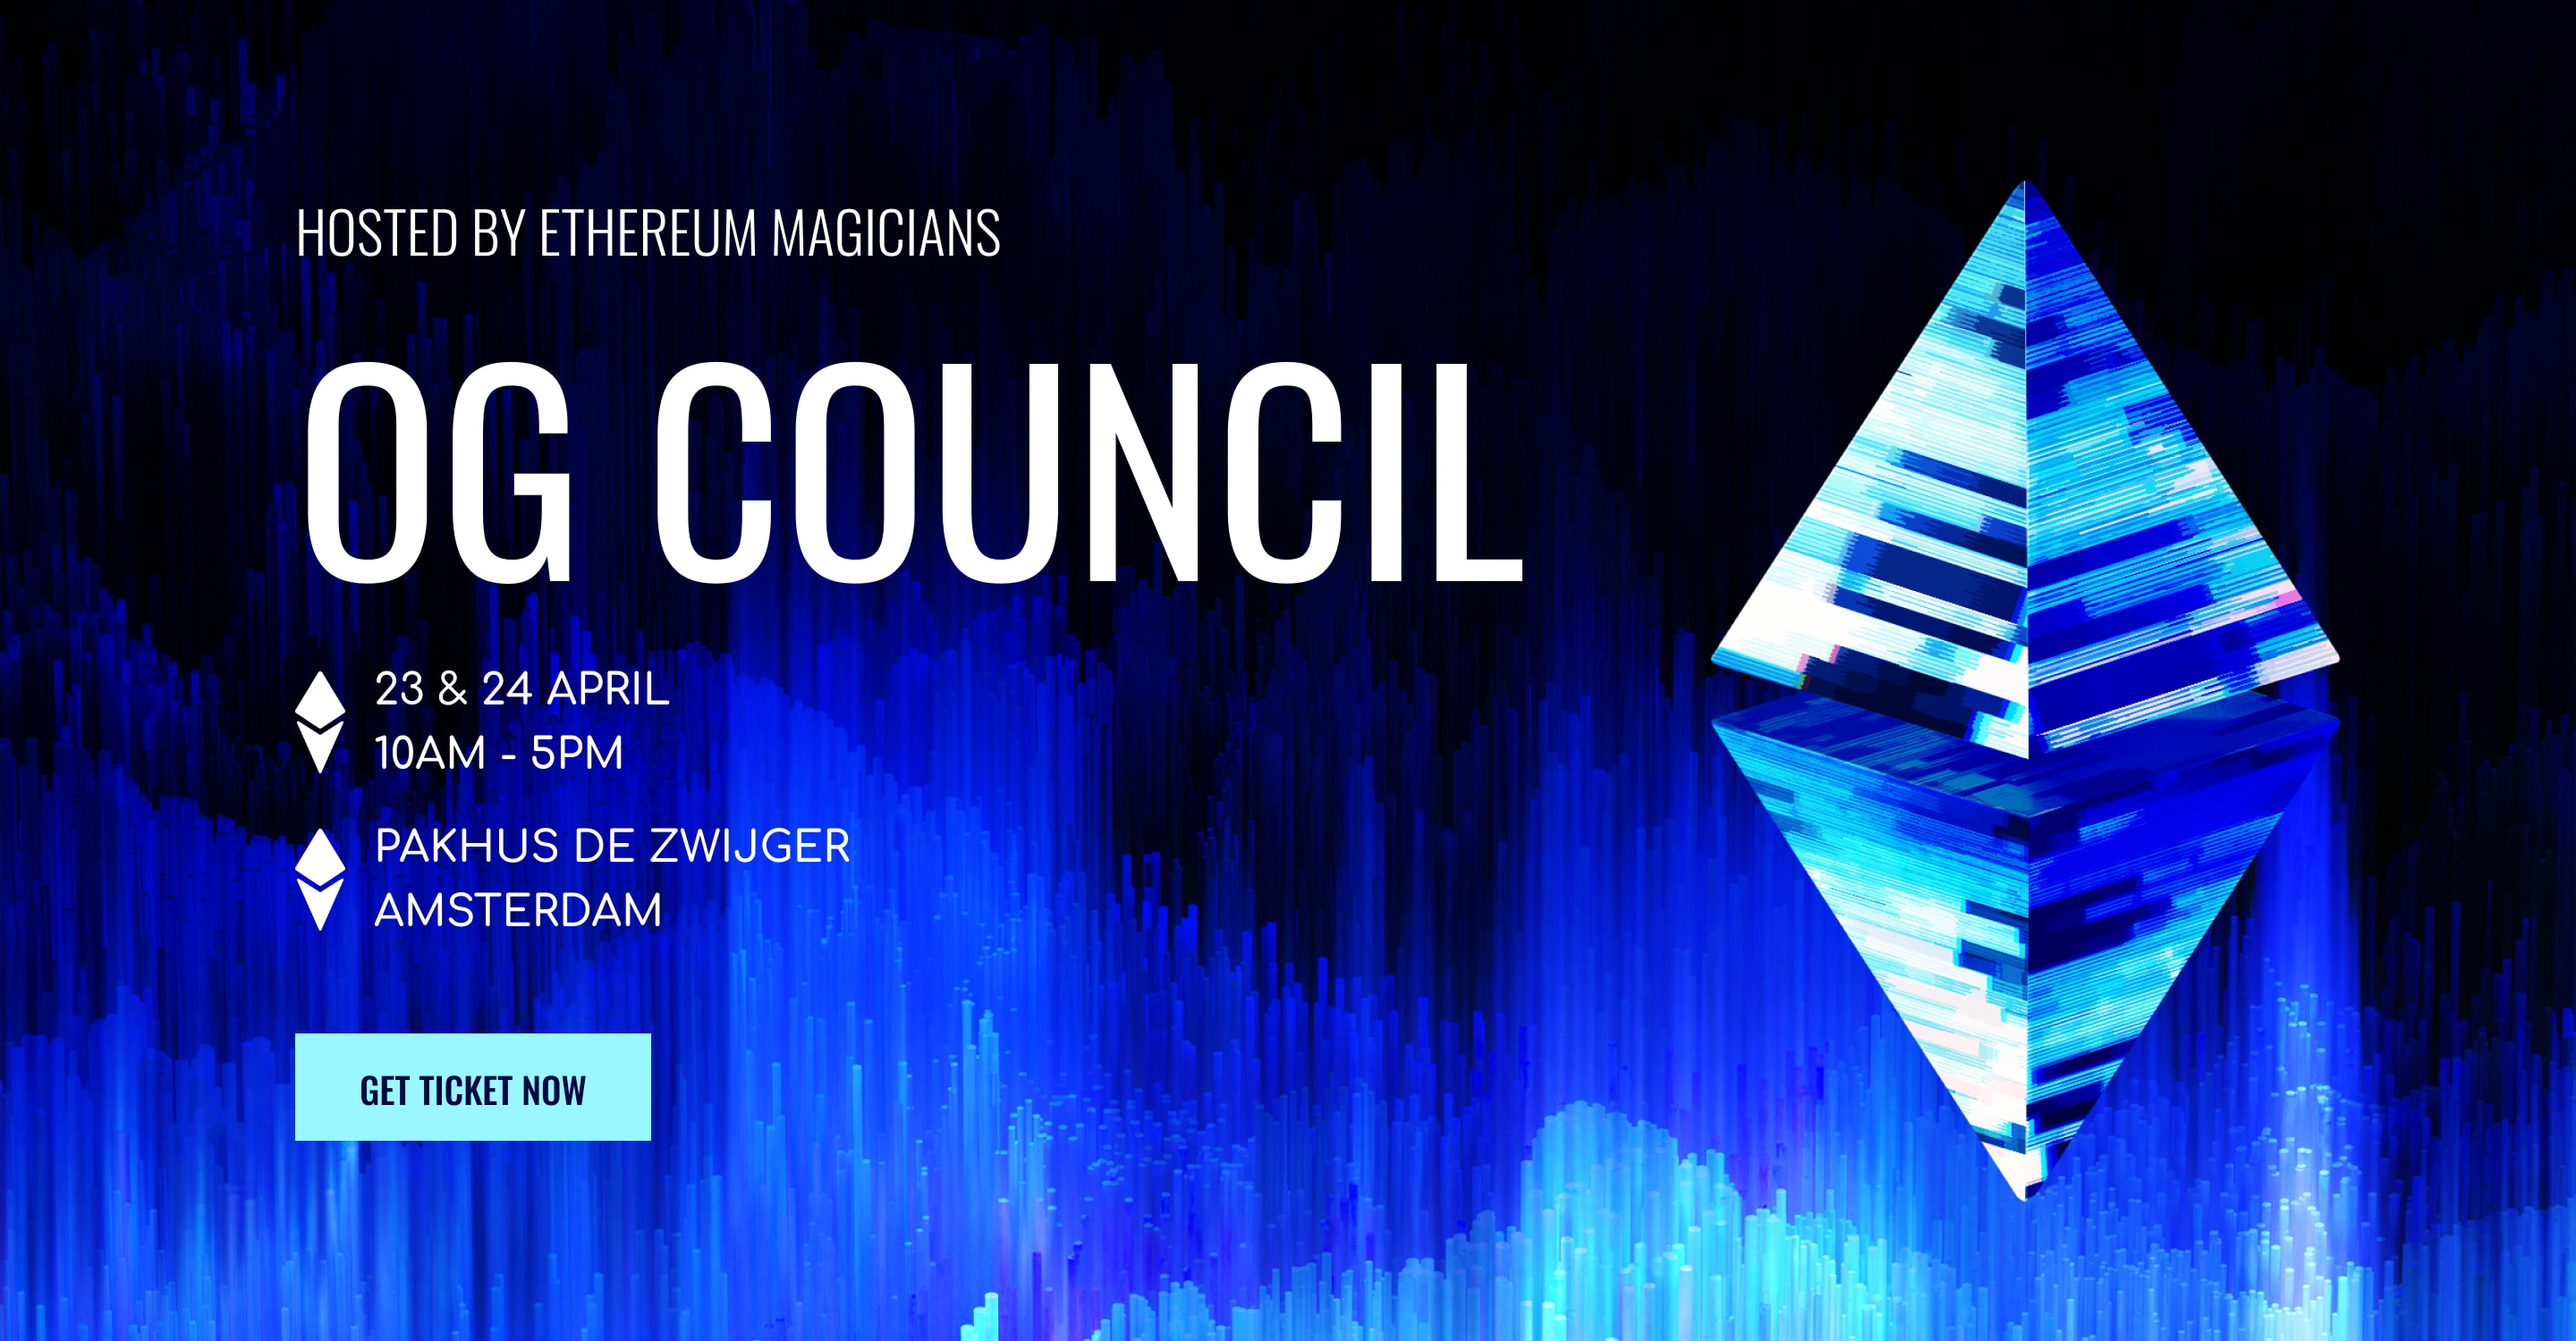
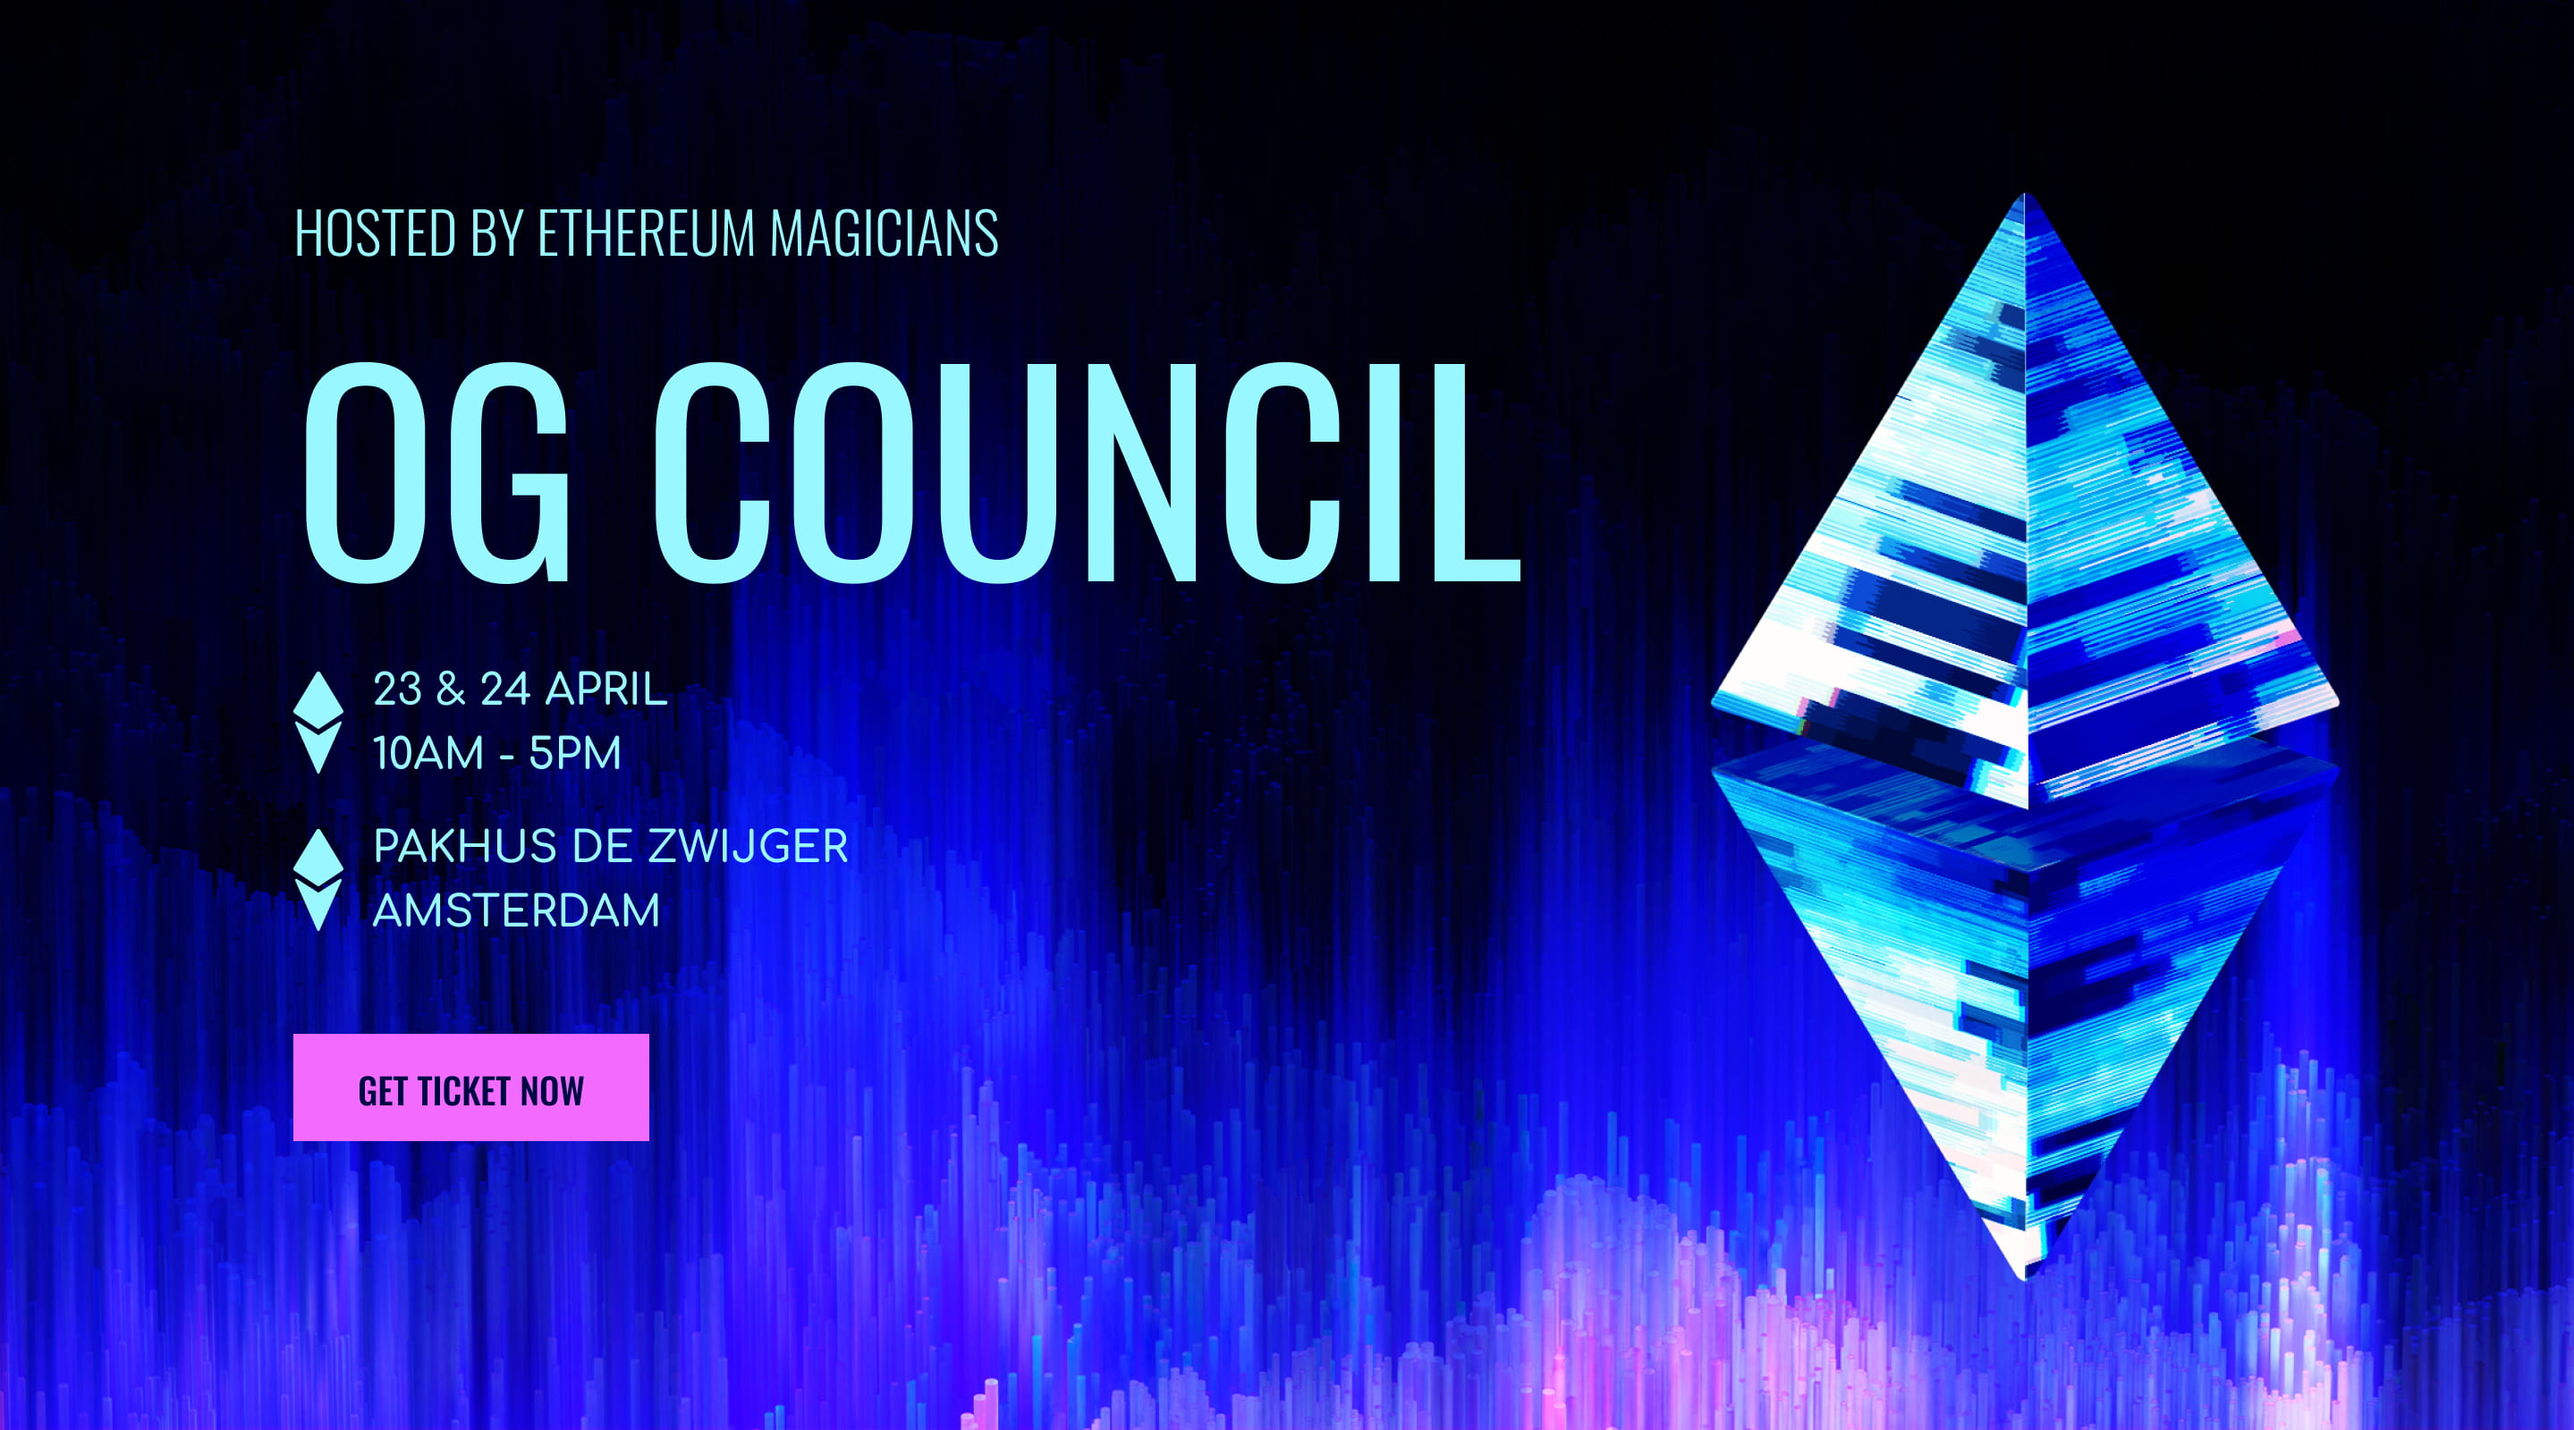
update

diff --git a/pages/index.tsx b/pages/index.tsx
@@ -7,6 +7,7 @@ import { Disclosure, Transition } from '@headlessui/react'
 import { ChevronDownIcon } from '@heroicons/react/outline'
 
 import Banner from '../images/banner.jpeg'
+import BannerMobile from '../images/banner-m.jpeg'
 
 import Map from '../images/map.png'
 import About from '../images/about.jpeg'
@@ -15,7 +16,6 @@ import Clock from '../images/icons/Clock.svg'
 import Pin from '../images/icons/Pin.svg'
 import Micro from '../images/icons/Micro.svg'
 
-const linkClass = ''
 const lightTextClass = 'text-base font-light'
 
 const Home: NextPage = () => {
@@ -34,7 +34,12 @@ const Home: NextPage = () => {
       <main className="min-h-screen flex-1 flex flex-col">
         <article className="w-full relative">
           <a href="">
-            <Image src={Banner} alt="" layout="responsive"></Image>
+            <div className="hidden lg:block">
+              <Image src={Banner} alt="" layout="responsive"></Image>
+            </div>
+            <div className="lg:hidden">
+              <Image src={BannerMobile} alt="" layout="responsive"></Image>
+            </div>
           </a>
         </article>
         <article className="container pt-12 lg:pt-32">
@@ -198,7 +203,7 @@ const Home: NextPage = () => {
               <dl className="mt-6 space-y-4">
                 {[
                   {
-                    n: 'Wave 1 - Date TBA',
+                    n: 'Wave 1 - Invite only claimable until March 17',
                     c: (
                       <>
                         <p>Tickets available: 250</p>
@@ -228,7 +233,7 @@ const Home: NextPage = () => {
                     ),
                   },
                   {
-                    n: 'Wave 2 - Date TBA',
+                    n: 'Wave 2 - March 18 claimable until March 25',
                     c: (
                       <>
                         <p>Tickets available: 200</p>
@@ -241,7 +246,7 @@ const Home: NextPage = () => {
                     ),
                   },
                   {
-                    n: 'Wave 3 - Date TBA',
+                    n: 'Wave 3 - April 1 till sold out',
                     c: (
                       <>
                         <p>Tickets available: 150</p>
@@ -405,7 +410,7 @@ const Home: NextPage = () => {
                     <div className="mt-6">
                       <a
                         href="https://goo.gl/maps/pnHc6BQZ24k62ihb6"
-                        className="inline-block bg-blue-02 cursor-pointer hover:opacity-95 text-blue-05 uppercase px-9 py-3 font-display"
+                        className="inline-block bg-pink-04 cursor-pointer hover:opacity-95 text-blue-05 uppercase px-9 py-3 font-display"
                       >
                         Directions
                       </a>

diff --git a/tailwind.config.js b/tailwind.config.js
@@ -20,6 +20,9 @@ module.exports = {
         '05': '#000843',
         '06': '#000630',
       },
+      pink: {
+        '04': '#F36BFE',
+      },
     },
     container: {
       center: true,
